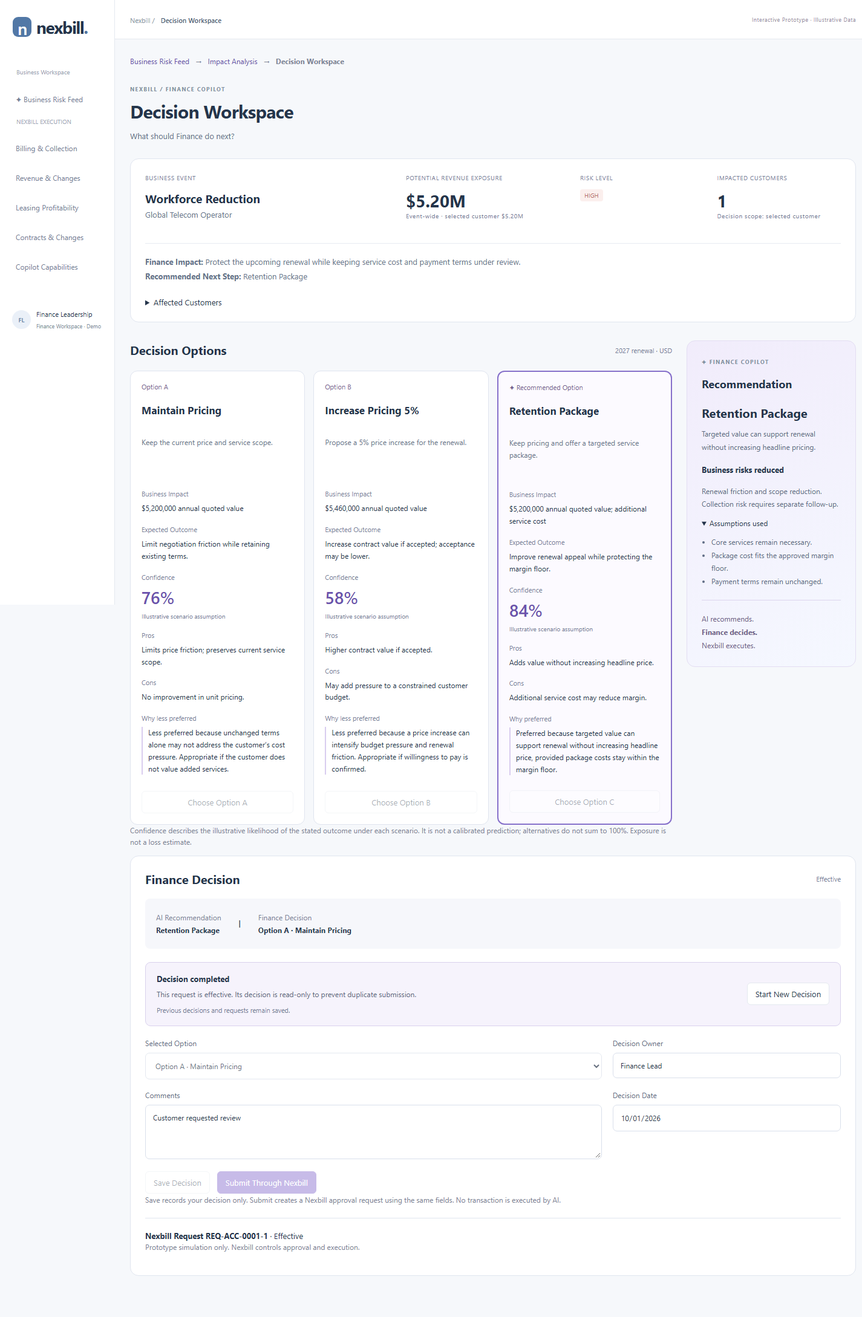
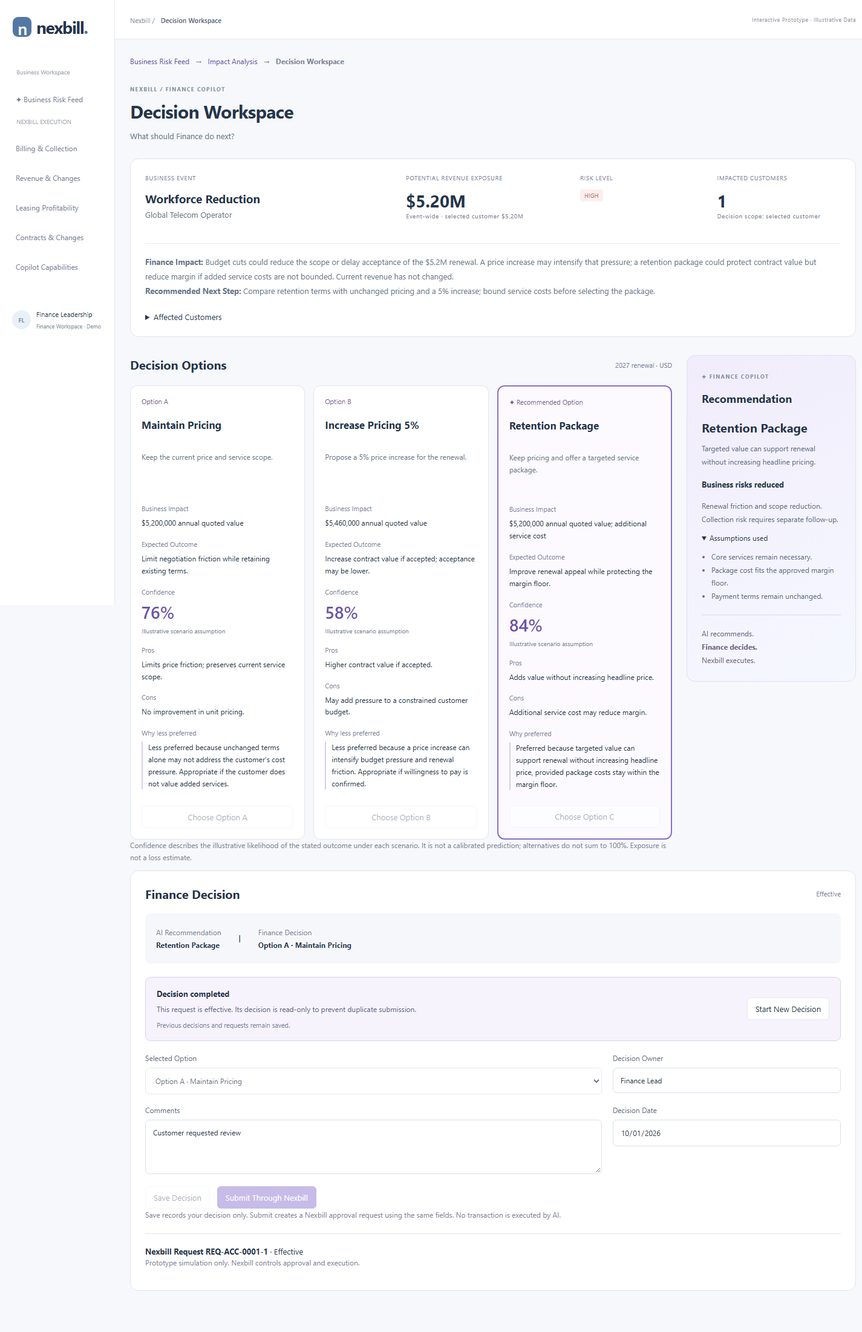
Clarify finance impacts and align recommended actions

diff --git a/decision-english.js b/decision-english.js
@@ -14,7 +14,7 @@ function workspaceRecommendation(r){return workspaceOptions(r).find(o=>o.recomme
 const englishStatus={pending:'Submitted · Awaiting approval',approved:'Approved · Awaiting effective date',effective:'Effective',rejected:'Rejected'};
 function englishChoice(text){const map=new Map(operationChoices.map((v,i)=>[v,['Maintain Pricing','Increase Pricing 5%','Retention Package'][i]]));return map.get(text)||String(text||'').replace('AR Owner','AR Lead').replace('Business Change Effective: ','Effective: ').replace('Track Business Request: ','Submitted: ').replace('Under Observation','Under observation')}
 function englishHistory(r){const records=state().decisions.filter(d=>d.eventId===r.event.id&&d.source!=='nexbill-effective');return records.map(d=>{const op=(state().operations||[]).find(o=>o.id===d.operationId),outcomes=(state().businessOutcomes||[]).filter(o=>o.decisionId===d.id);return `<article class="v3-record"><div class="event-comparison"><div><small>AI Recommendation</small><b>${esc(englishChoice(d.recommendation))}</b></div><div><small>Finance Decision</small><b>${esc(englishChoice(d.financeChoice||op?.choice||d.selection))}</b><p>${esc(d.comments||'No comments')}</p></div><div><small>Nexbill Execution</small><b>${op?englishStatus[op.status]:'Saved · Not submitted'}</b><p>${esc(englishChoice(d.owner))} · ${esc(d.decisionDate||d.snapshotDate)}</p></div></div><h3>Business Outcome</h3>${outcomes.map(o=>`<p>${esc(o.date)} · ${esc(o.result)}<br>${esc(o.comment)}</p>`).join('')||'<p>Not yet observed. Approval is not evidence of a business improvement.</p>'}<details><summary>Record an observed outcome</summary><form class="v3-outcome" data-decision="${esc(d.id)}"><label>Observation Date<input type="date" name="date" required></label><label>Outcome<select name="result"><option>Still under observation</option><option>Improved</option><option>No material change</option><option>Deteriorated</option></select></label><label>Observation / Evidence<textarea name="comment" required maxlength="1500"></textarea></label><button type="submit">Save Outcome</button></form></details></article>`}).join('')}
-eventDecisionPage=function(r){const options=workspaceOptions(r),recommended=workspaceRecommendation(r),v=decisionValue(r),record=workspaceRecord(r),op=record?.operationId?(state().operations||[]).find(o=>o.id===record.operationId):null,busy=op&&op.status!=='rejected',renewal=r.event.issue==='renewal';return `<nav class="event-steps"><a href="#events">Business Risk Feed</a><span>→</span><a href="${journeyLink('impact',r.event)}">Impact Analysis</a><span>→</span><b>Decision Workspace</b></nav>`+journeyHeader('Decision Workspace','What should Finance do next?')+`<section class="dw-summary"><div><small>BUSINESS EVENT</small><h2>${r.event.title}</h2><p>${esc(englishAccount(c()))}</p></div><div><small>${r.event.growth?'POTENTIAL GROWTH':'POTENTIAL REVENUE EXPOSURE'}</small><strong>${million(eventTotal(r.event))}</strong><small>Event-wide · selected customer ${million(r.link.value)}</small></div><div><small>RISK LEVEL</small><span class="status ${r.event.growth?'green':'red'}">${r.event.growth?'OPPORTUNITY':r.event.priority.toUpperCase()}</span></div><div><small>IMPACTED CUSTOMERS</small><strong>${r.event.links.length}</strong><small>Decision scope: selected customer</small></div><p class="dw-impact"><b>Finance Impact:</b> ${r.event.impact}<br><b>Recommended Next Step:</b> ${recommended.label}</p><details><summary>Affected Customers</summary>${r.event.links.map(l=>`<p><a href="${journeyLink('decision',r.event,l.id)}">${esc(englishAccount(accounts[l.id]))} · ${million(l.value)}</a></p>`).join('')}</details></section><div class="dw-layout"><section><div class="dw-section-title"><h2>Decision Options</h2><span>${renewal?'2027 renewal · USD':'Customer action review'}</span></div><div class="dw-options">${options.map((o,i)=>`<article class="dw-option ${o.recommended?'recommended':''}"><div class="dw-option-label">${o.recommended?'✦ Recommended Option':'Option '+String.fromCharCode(65+i)}</div><h3>${o.label}</h3><p class="dw-outcome">${o.description}</p><dl><dt>Business Impact</dt><dd class="dw-body">${o.businessImpact}</dd><dt>Expected Outcome</dt><dd class="dw-body">${o.outcome}</dd><dt>Confidence</dt><dd class="dw-probability">${o.prob}%<small>Illustrative scenario assumption</small></dd><dt>Pros</dt><dd class="dw-body">${o.pro}</dd><dt>Cons</dt><dd class="dw-body">${o.con}</dd></dl><button type="button" data-dw-choice="${esc(o.choice)}" ${busy?'disabled':''}>Choose Option ${String.fromCharCode(65+i)}</button></article>`).join('')}</div><p class="event-footnote">Confidence describes the illustrative likelihood of the stated outcome under each scenario. It is not a calibrated prediction; alternatives do not sum to 100%. Exposure is not a loss estimate.</p></section><aside class="dw-copilot"><span class="tiny-label">✦ FINANCE COPILOT</span><h2>Recommendation</h2><h3>${recommended.label}</h3><p>${renewal?'Targeted value can support renewal without increasing headline pricing.':r.event.growth?'Validate customer funding before committing commercial resources or adding forecast revenue.':'Confirm payment commitments early, before a credit signal becomes a missed payment.'}</p><h4>Business risks reduced</h4><p>${renewal?'Renewal friction and scope reduction. Collection risk requires separate follow-up.':r.event.growth?'Unfunded demand and premature revenue assumptions.':'Unclear payment timing and delayed collection escalation.'}</p><details open><summary>Assumptions used</summary><ul>${(renewal?['Core services remain necessary.','Package cost fits the approved margin floor.','Payment terms remain unchanged.']:r.event.growth?['Expansion is announced, not contracted.','Budget and procurement dates need confirmation.','No opportunity revenue is booked.']:['Open balances are not assumed to be losses.','The customer can confirm payment commitments.','Changes to terms require Nexbill approval.']).map(x=>'<li>'+x+'</li>').join('')}</ul></details><div class="dw-boundary">AI recommends.<br><b>Finance decides.</b><br>Nexbill executes.</div></aside></div><section class="event-card" id="business-action"><div class="dw-section-title"><h2>Finance Decision</h2><span>${op?englishStatus[op.status]:record?'Saved · Not submitted':'Awaiting decision'}</span></div><div class="dw-versus"><div><small>AI Recommendation</small><b>${recommended.label}</b></div><span aria-hidden="true">│</span><div><small>Finance Decision</small><b id="dw-selected-label">${esc(options.find(o=>o.choice===v.choice)?.name||'No option selected')}</b></div></div><form id="finance-decision-form"><div class="dw-fields"><label>Selected Option<select name="choice" required ${busy?'disabled':''}><option value="">Select an option</option>${options.map(o=>`<option value="${esc(o.choice)}" ${o.choice===v.choice?'selected':''}>${o.name}</option>`).join('')}</select></label><label>Decision Owner<input name="owner" maxlength="150" required value="${esc(englishChoice(v.owner))}" ${busy?'disabled':''}></label><label>Comments<textarea name="comments" maxlength="1500" required ${busy?'disabled':''} placeholder="Explain your choice and any difference from the AI recommendation.">${esc(v.comments)}</textarea></label><label>Decision Date<input type="date" name="date" value="${esc(v.date)}" required ${busy?'disabled':''}></label></div><div class="dw-actions"><button type="submit" name="intent" value="save" ${busy?'disabled':''}>Save Decision</button><button class="primary" type="submit" name="intent" value="submit" ${busy?'disabled':''}>Submit Through Nexbill</button></div><p class="event-footnote">Save records your decision only. Submit creates a Nexbill approval request using the same fields. No transaction is executed by AI.</p></form>${op?`<div class="dw-execution"><b>Nexbill Request ${esc(op.id)}</b> · ${englishStatus[op.status]}${op.status==='pending'?'<p><button data-business-status="approved">Simulate Approval</button> <button data-business-status="rejected">Simulate Rejection</button></p>':op.status==='approved'?'<p><button data-business-status="effective">Simulate Effective Date</button></p>':''}<p class="event-footnote">Prototype simulation only. Actual business outcomes are recorded separately.</p></div>`:''}</section>${record?`<details class="event-card"><summary>Decision History & Business Outcomes</summary>${englishHistory(r)}</details>`:''}`};
+eventDecisionPage=function(r){const options=workspaceOptions(r),recommended=workspaceRecommendation(r),v=decisionValue(r),record=workspaceRecord(r),op=record?.operationId?(state().operations||[]).find(o=>o.id===record.operationId):null,busy=op&&op.status!=='rejected',renewal=r.event.issue==='renewal';return `<nav class="event-steps"><a href="#events">Business Risk Feed</a><span>→</span><a href="${journeyLink('impact',r.event)}">Impact Analysis</a><span>→</span><b>Decision Workspace</b></nav>`+journeyHeader('Decision Workspace','What should Finance do next?')+`<section class="dw-summary"><div><small>BUSINESS EVENT</small><h2>${r.event.title}</h2><p>${esc(englishAccount(c()))}</p></div><div><small>${r.event.growth?'POTENTIAL GROWTH':'POTENTIAL REVENUE EXPOSURE'}</small><strong>${million(eventTotal(r.event))}</strong><small>Event-wide · selected customer ${million(r.link.value)}</small></div><div><small>RISK LEVEL</small><span class="status ${r.event.growth?'green':'red'}">${r.event.growth?'OPPORTUNITY':r.event.priority.toUpperCase()}</span></div><div><small>IMPACTED CUSTOMERS</small><strong>${r.event.links.length}</strong><small>Decision scope: selected customer</small></div><p class="dw-impact"><b>Finance Impact:</b> ${r.event.impact}<br><b>Recommended Next Step:</b> ${r.event.growth?'Validate funding and procurement dates before preparing a proposal or adding forecast revenue.':renewal?'Compare retention terms with unchanged pricing and a 5% increase; bound service costs before selecting the package.':'Confirm payment dates for the largest open invoices before considering revised payment terms.'}</p><details><summary>Affected Customers</summary>${r.event.links.map(l=>`<p><a href="${journeyLink('decision',r.event,l.id)}">${esc(englishAccount(accounts[l.id]))} · ${million(l.value)}</a></p>`).join('')}</details></section><div class="dw-layout"><section><div class="dw-section-title"><h2>Decision Options</h2><span>${renewal?'2027 renewal · USD':'Customer action review'}</span></div><div class="dw-options">${options.map((o,i)=>`<article class="dw-option ${o.recommended?'recommended':''}"><div class="dw-option-label">${o.recommended?'✦ Recommended Option':'Option '+String.fromCharCode(65+i)}</div><h3>${o.label}</h3><p class="dw-outcome">${o.description}</p><dl><dt>Business Impact</dt><dd class="dw-body">${o.businessImpact}</dd><dt>Expected Outcome</dt><dd class="dw-body">${o.outcome}</dd><dt>Confidence</dt><dd class="dw-probability">${o.prob}%<small>Illustrative scenario assumption</small></dd><dt>Pros</dt><dd class="dw-body">${o.pro}</dd><dt>Cons</dt><dd class="dw-body">${o.con}</dd></dl><button type="button" data-dw-choice="${esc(o.choice)}" ${busy?'disabled':''}>Choose Option ${String.fromCharCode(65+i)}</button></article>`).join('')}</div><p class="event-footnote">Confidence describes the illustrative likelihood of the stated outcome under each scenario. It is not a calibrated prediction; alternatives do not sum to 100%. Exposure is not a loss estimate.</p></section><aside class="dw-copilot"><span class="tiny-label">✦ FINANCE COPILOT</span><h2>Recommendation</h2><h3>${recommended.label}</h3><p>${renewal?'Targeted value can support renewal without increasing headline pricing.':r.event.growth?'Validate customer funding before committing commercial resources or adding forecast revenue.':'Confirm payment commitments early, before a credit signal becomes a missed payment.'}</p><h4>Business risks reduced</h4><p>${renewal?'Renewal friction and scope reduction. Collection risk requires separate follow-up.':r.event.growth?'Unfunded demand and premature revenue assumptions.':'Unclear payment timing and delayed collection escalation.'}</p><details open><summary>Assumptions used</summary><ul>${(renewal?['Core services remain necessary.','Package cost fits the approved margin floor.','Payment terms remain unchanged.']:r.event.growth?['Expansion is announced, not contracted.','Budget and procurement dates need confirmation.','No opportunity revenue is booked.']:['Open balances are not assumed to be losses.','The customer can confirm payment commitments.','Changes to terms require Nexbill approval.']).map(x=>'<li>'+x+'</li>').join('')}</ul></details><div class="dw-boundary">AI recommends.<br><b>Finance decides.</b><br>Nexbill executes.</div></aside></div><section class="event-card" id="business-action"><div class="dw-section-title"><h2>Finance Decision</h2><span>${op?englishStatus[op.status]:record?'Saved · Not submitted':'Awaiting decision'}</span></div><div class="dw-versus"><div><small>AI Recommendation</small><b>${recommended.label}</b></div><span aria-hidden="true">│</span><div><small>Finance Decision</small><b id="dw-selected-label">${esc(options.find(o=>o.choice===v.choice)?.name||'No option selected')}</b></div></div><form id="finance-decision-form"><div class="dw-fields"><label>Selected Option<select name="choice" required ${busy?'disabled':''}><option value="">Select an option</option>${options.map(o=>`<option value="${esc(o.choice)}" ${o.choice===v.choice?'selected':''}>${o.name}</option>`).join('')}</select></label><label>Decision Owner<input name="owner" maxlength="150" required value="${esc(englishChoice(v.owner))}" ${busy?'disabled':''}></label><label>Comments<textarea name="comments" maxlength="1500" required ${busy?'disabled':''} placeholder="Explain your choice and any difference from the AI recommendation.">${esc(v.comments)}</textarea></label><label>Decision Date<input type="date" name="date" value="${esc(v.date)}" required ${busy?'disabled':''}></label></div><div class="dw-actions"><button type="submit" name="intent" value="save" ${busy?'disabled':''}>Save Decision</button><button class="primary" type="submit" name="intent" value="submit" ${busy?'disabled':''}>Submit Through Nexbill</button></div><p class="event-footnote">Save records your decision only. Submit creates a Nexbill approval request using the same fields. No transaction is executed by AI.</p></form>${op?`<div class="dw-execution"><b>Nexbill Request ${esc(op.id)}</b> · ${englishStatus[op.status]}${op.status==='pending'?'<p><button data-business-status="approved">Simulate Approval</button> <button data-business-status="rejected">Simulate Rejection</button></p>':op.status==='approved'?'<p><button data-business-status="effective">Simulate Effective Date</button></p>':''}<p class="event-footnote">Prototype simulation only. Actual business outcomes are recorded separately.</p></div>`:''}</section>${record?`<details class="event-card"><summary>Decision History & Business Outcomes</summary>${englishHistory(r)}</details>`:''}`};
 // Routing only: retain the approved Impact Analysis layout and evidence content.
 const approvedImpactPage=impactPage;
 impactPage=function(r){return approvedImpactPage(r).replaceAll('#customer/'+r.event.id+'/','#decision/'+r.event.id+'/').replaceAll('Review customer →','Review decision →')};

diff --git a/events.js b/events.js
@@ -1,9 +1,9 @@
 // Event-first Finance Copilot journey embedded in the Nexbill shell.
 const businessEvents=[
  {id:'workforce',title:'Workforce Reduction',kind:'Operating change',date:'2026-10-01',source:'Customer operating update · illustrative',summary:'Retail Technology Group announces a workforce and operating-footprint reduction.',interpretation:'Lower operating capacity may reduce equipment demand before billing changes.',impact:'Review usage and upcoming commitments; announced cuts are not confirmed contract reductions.',label:'Potential Revenue Exposure',links:[{id:1,value:2400000}],issue:'revenue',action:'Validate Demand & Change Scope'},
- {id:'credit',title:'Credit Outlook Downgrade',kind:'Credit signal',date:'2026-10-01',source:'Credit outlook notice · illustrative',summary:'Global Telecom Operator receives a negative credit outlook.',interpretation:'Funding pressure may affect future payment timing even while invoices remain within terms.',impact:'Prioritize payment confirmation. Outstanding receivables are exposure, not expected loss.',label:'Potential Revenue Exposure',links:[{id:0,value:5200000}],collection:2000000,issue:'collection',action:'Prioritize Overdue Collection'},
- {id:'slowdown',title:'Industry Investment Slowdown',kind:'Market signal',date:'2026-09-30',source:'Sector investment briefing · illustrative',summary:'Telecom operators signal slower capital spending.',interpretation:'Expansion orders and renewal budgets may face pressure before recognized revenue changes.',impact:'Validate budgets and renewal timing across affected customers.',label:'Potential Revenue Exposure',links:[{id:0,value:3200000},{id:5,value:1800000},{id:10,value:3000000}],issue:'renewal',action:'Maintain Pricing'},
- {id:'expansion',title:'Expansion Opportunity',kind:'Growth signal',date:'2026-10-01',source:'Planned facility announcement · illustrative',summary:'New data center investment is announced across two customer programs.',interpretation:'New facilities could create equipment and service demand before orders are placed.',impact:'Validate funding and procurement dates; keep opportunities outside committed revenue.',label:'Potential Revenue Exposure',links:[{id:3,value:2500000},{id:4,value:1500000}],growth:true,issue:'growth',action:'Confirm Expansion Budget & Procurement Timing'}
+ {id:'credit',title:'Credit Outlook Downgrade',kind:'Credit signal',date:'2026-10-01',source:'Credit outlook notice · illustrative',summary:'Global Telecom Operator receives a negative credit outlook.',interpretation:'Funding pressure may affect future payment timing even while invoices remain within terms.',impact:'Slower payment could delay cash receipts from the $2M open receivables balance and increase collection effort. The timing risk can rise before further overdue balances appear; it is not a $2M expected loss.',label:'Potential Revenue Exposure',links:[{id:0,value:5200000}],collection:2000000,issue:'collection',action:'Prioritize Overdue Collection'},
+ {id:'slowdown',title:'Industry Investment Slowdown',kind:'Market signal',date:'2026-09-30',source:'Sector investment briefing · illustrative',summary:'Telecom operators signal slower capital spending.',interpretation:'Expansion orders and renewal budgets may face pressure before recognized revenue changes.',impact:'Lower investment budgets could reduce renewal scope or move planned revenue into later periods across the $8M business scope under review. Current booked revenue is unchanged; $8M is not an estimated loss.',label:'Potential Revenue Exposure',links:[{id:0,value:3200000},{id:5,value:1800000},{id:10,value:3000000}],issue:'renewal',action:'Maintain Pricing'},
+ {id:'expansion',title:'Expansion Opportunity',kind:'Growth signal',date:'2026-10-01',source:'Planned facility announcement · illustrative',summary:'New data center investment is announced across two customer programs.',interpretation:'New facilities could create equipment and service demand before orders are placed.',impact:'The $4M potential opportunity is not contracted. If funding or procurement slips, expected revenue moves later while proposal and delivery preparation can consume resources before an order is secured.',label:'Potential Revenue Exposure',links:[{id:3,value:2500000},{id:4,value:1500000}],growth:true,issue:'growth',action:'Confirm Expansion Budget & Procurement Timing'}
 ];
 issueCatalog.growth={title:'Growth Opportunity',route:'contracts',action:'Confirm Expansion Budget & Procurement Timing',alternatives:['Prepare a Scoped Expansion Proposal','No Adjustment, Continue Monitoring'],tradeoff:'Validate budget and demand first; Unconfirmed opportunities are excluded from revenue. '};
 function journeyRoute(){const p=location.hash.slice(1).split('/');if(!p[0]||p[0]==='events')return {page:'events'};if(!['impact','customer','decision'].includes(p[0]))return null;const event=businessEvents.find(e=>e.id===p[1]);if(!event)return {page:'invalid'};const link=event.links.find(l=>l.id===Number(p[2]));if(p[0]!=='impact'&&!link)return {page:'invalid'};return {page:p[0],event,link}}
@@ -12,7 +12,7 @@ function journeyLink(view,e,id){return '#'+view+'/'+e.id+(id===undefined?'':'/'+
 function journeyHeader(title,sub){return `<div class="event-heading"><span class="tiny-label">NEXBILL / FINANCE COPILOT</span><h1>${title}</h1><p>${sub}</p></div>`}
 function eventSteps(r){return `<nav class="event-steps" aria-label="Decision journey"><a href="#events">Business Events</a><span>→</span><a href="${journeyLink('impact',r.event)}">Impact Analysis</a><span>→</span>${r.link?`<a href="${journeyLink('customer',r.event,r.link.id)}">Customer 360</a><span>→</span><a href="${journeyLink('decision',r.event,r.link.id)}">Decision Workspace</a>`:'<span>Affected Customer → Decision</span>'}</nav>`}
 function feedPage(){return journeyHeader('Business Risk Feed','What changed in the market? Review the financial implications before results change.')+`<div class="event-banner"><b>Signals first. Decisions earlier.</b><span>4 illustrative business events · Exposure is not a forecast loss</span></div><div class="event-grid">${businessEvents.map(e=>`<article class="event-card"><div class="event-meta"><span>${e.kind}</span><time>${e.date}</time></div><h2>${e.title}</h2><p>${e.summary}</p><div class="event-value"><small>${e.growth?'Potential Growth':e.label}</small><strong>${million(eventTotal(e))}</strong>${e.growth?`<span>Potential Revenue Exposure · Not assessed</span>`:e.collection?`<span>Collection Exposure ${million(e.collection)}</span>`:''}</div><div class="event-customers">Affected Customers <b>${e.links.length}</b><small>${e.links.map(l=>esc(accounts[l.id].name)).join(' · ')}</small></div><a class="event-primary" href="${journeyLink('impact',e)}">${e.growth?'Review Opportunity':'Review Impact'} →</a></article>`).join('')}</div><p class="event-footnote">Illustrative events, customer mappings and amounts. Event exposures may overlap; do not add them into a portfolio total.</p>`}
-function impactPage(r){const e=r.event;return eventSteps(r)+journeyHeader('Impact Analysis',e.title)+`<div class="event-analysis"><section class="event-card"><span class="tiny-label">01 / BUSINESS EVENT</span><h2>${e.title}</h2><p>${e.summary}</p><details><summary>Evidence and assumptions</summary><p>${e.source} · ${e.date}</p><p>Customer associations and amounts are demonstration assumptions, not independently verified findings. ${e.growth?'Opportunity value is not booked revenue.':'Exposure represents the selected business scope, not a probability-weighted loss.'}</p></details></section><section class="event-card"><span class="tiny-label">02 / AI INTERPRETATION</span><h2>Why Finance should look now</h2><p>${e.interpretation}</p><div class="event-callout">${e.impact}</div></section></div><section class="event-card"><span class="tiny-label">03 / FINANCE IMPACT</span><h2>${e.growth?'Potential Growth':e.label} · ${million(eventTotal(e))}</h2>${e.collection?`<p>Collection Exposure · ${million(e.collection)}</p>`:''}<div class="event-comparison"><div><small>Traditional view</small><b>Current financial results</b><p>Review recorded revenue, invoices and payment history.</p></div><div><small>Forward-looking view</small><b>Decision assumptions may change</b><p>${e.interpretation}</p></div></div><h3>Affected Customers</h3>${e.links.map(l=>`<a class="event-customer-row" href="${journeyLink('customer',e,l.id)}"><span>${esc(accounts[l.id].name)}<small>${e.growth?'Potential growth':'Revenue exposure'} · ${million(l.value)}</small></span><b>Review customer →</b></a>`).join('')}</section>`}
+function impactPage(r){const e=r.event;return eventSteps(r)+journeyHeader('Impact Analysis',e.title)+`<div class="event-analysis"><section class="event-card"><span class="tiny-label">01 / BUSINESS EVENT</span><h2>${e.title}</h2><p>${e.summary}</p><details><summary>Evidence and assumptions</summary><p>${e.source} · ${e.date}</p><p>Customer associations and amounts are demonstration assumptions, not independently verified findings. ${e.growth?'Opportunity value is not booked revenue.':'Exposure represents the selected business scope, not a probability-weighted loss.'}</p></details></section><section class="event-card"><span class="tiny-label">02 / AI INTERPRETATION</span><h2>Why Finance should look now</h2><p>${e.interpretation}</p></section></div><section class="event-card"><span class="tiny-label">03 / FINANCE IMPACT</span><h2>${e.growth?'Potential Growth':e.label} · ${million(eventTotal(e))}</h2><p>${e.impact}</p>${e.collection?`<p>Collection Exposure · ${million(e.collection)}</p>`:''}<div class="event-comparison"><div><small>Traditional view</small><b>Current financial results</b><p>Review recorded revenue, invoices and payment history.</p></div><div><small>Forward-looking view</small><b>Decision assumptions may change</b><p>${e.interpretation}</p></div></div><h3>Affected Customers</h3>${e.links.map(l=>`<a class="event-customer-row" href="${journeyLink('customer',e,l.id)}"><span>${esc(accounts[l.id].name)}<small>${e.growth?'Potential growth':'Revenue exposure'} · ${million(l.value)}</small></span><b>Review customer →</b></a>`).join('')}</section>`}
 function customerPage(r){const e=r.event,a=accounts[r.link.id],m=metrics(a),ar=arMetrics(a);return eventSteps(r)+journeyHeader('Customer 360',a.name)+`<div class="event-callout"><b>Reviewing because: ${e.title}</b><p>${e.interpretation}</p></div><div class="event-metrics"><div>Current monthly revenue<strong>${million(a.revenue)}</strong></div><div>Open receivables<strong>${million(ar.open)}</strong></div><div>Gross margin<strong>${pct(m.margin)}</strong></div></div><div class="event-analysis"><section class="event-card"><h2>Financial facts</h2><p>Recorded results remain the starting point. This event has not changed invoices, contracts or recognized revenue.</p><details><summary>View current invoices</summary>${invoices(a).map(i=>`<p>${esc(i.id)} · ${usd(i.open)} open · ${esc(i.status)}</p>`).join('')}</details></section><section class="event-card"><span class="tiny-label">EVENT-SPECIFIC IMPACT</span><h2>${e.growth?'Opportunity':'Revenue exposure'} · ${million(r.link.value)}</h2><p>${e.impact}</p><a class="event-primary" href="${journeyLink('decision',e,a.id)}">Review Decision →</a></section></div>`}
 function eventDecisionPage(r){const e=r.event,s=state(),records=s.decisions.filter(d=>d.eventId===e.id);return eventSteps(r)+journeyHeader('Decision Workspace',c().name+' · '+e.title)+`<div class="event-analysis"><section class="event-card"><span class="tiny-label">04 / RECOMMENDED ACTION</span><h2>${e.action}</h2><p>${e.impact}</p><details><summary>Compare alternatives</summary><p>${selectedIssue().tradeoff}</p>${currentChoices().map(t=>`<p>• ${esc(t)}</p>`).join('')}</details><button class="secondary full-width" data-event-watch="${e.id}">Continue monitoring · Record decision</button><p class="event-footnote">No business change. Record this event and customer for follow-up.</p></section><section class="event-card"><span class="tiny-label">05 / FINANCE DECISION</span><h2>Review once. Submit in Nexbill.</h2><p>Choose the action in the Nexbill form below. Submission captures the selected decision, AI recommendation and event context together.</p><div class="event-callout">${records.length?'Decision captured · '+records.length+' record(s)':'Awaiting Finance review'}</div><details><summary>Decision history</summary>${records.map(d=>`<p><b>${esc(d.selection)}</b><br>${esc(d.comments||'No comment')}<br><small>${esc(d.savedAt)}</small></p>`).join('')||'<p>No decision recorded for this event and customer.</p>'}</details></section></div>${businessAction()}`}
 const nativeJourneyHost=hostRender;

diff --git a/v3.js b/v3.js
@@ -5,7 +5,7 @@ businessEvents.find(e=>e.id==='slowdown').action='Retention Package';
 const v2Feed=feedPage;
 feedPage=function(){let html=v2Feed().replace('Signals first. Decisions earlier.','New Business Events');businessEvents.forEach(e=>{html=html.replace(`<h2>${e.title}</h2>`,`<span class="status ${e.growth?'green':'amber'}">Priority · ${e.priority}</span><h2>${e.title}</h2>`).replace(`<a class="event-primary" href="${journeyLink('impact',e)}">`,`<p class="v3-next"><small>Suggested Next Step</small><br>${esc(e.action)}</p><a class="event-primary" href="${journeyLink('impact',e)}">`)});return html};
 const v2Impact=impactPage;
-impactPage=function(r){const e=r.event,sorted={...e,links:[...e.links].sort((a,b)=>b.value-a.value)};let html=v2Impact({...r,event:sorted}).replace('01 / BUSINESS EVENT','01 / WHAT CHANGED').replace('<h3>Affected Customers</h3>','<h3>Affected Customer Portfolio</h3><p class="event-footnote">Sorted by exposure · overlapping event exposures are not additive.</p>');const metricsHtml=`<div class="event-metrics"><div>${e.growth?'Potential Growth':'Revenue Exposure'}<strong>${million(eventTotal(e))}</strong></div><div>Affected Renewals<strong>${e.links.reduce((n,l)=>n+l.renewals,0)}</strong></div><div>Affected Customers<strong>${e.links.length}</strong></div></div>`;html=html.replace('<div class="event-comparison">',metricsHtml+'<div class="event-comparison">');return html+`<section class="event-card"><h2>Recommended Next Steps</h2><div class="v3-actions"><a class="event-primary" href="#revenue">Review Q4 Forecast →</a><a class="event-primary" href="${journeyLink('customer',e,sorted.links[0].id)}">${e.growth?'Validate opportunity':'Review affected customer decisions'} →</a>${!e.growth?'<a class="event-primary" href="#impact/expansion">Review Cloud Opportunities →</a>':''}</div></section>`};
+impactPage=function(r){const e=r.event,sorted={...e,links:[...e.links].sort((a,b)=>b.value-a.value)};let html=v2Impact({...r,event:sorted}).replace('01 / BUSINESS EVENT','01 / WHAT CHANGED').replace('<h3>Affected Customers</h3>','<h3>Affected Customer Portfolio</h3><p class="event-footnote">Sorted by exposure · overlapping event exposures are not additive.</p>');const metricsHtml=`<div class="event-metrics"><div>${e.growth?'Potential Growth':'Revenue Exposure'}<strong>${million(eventTotal(e))}</strong></div><div>Affected Renewals<strong>${e.links.reduce((n,l)=>n+l.renewals,0)}</strong></div><div>Affected Customers<strong>${e.links.length}</strong></div></div>`;html=html.replace('<div class="event-comparison">',metricsHtml+'<div class="event-comparison">');return html+`<section class="event-card"><h2>Recommended Next Steps</h2><div class="v3-actions"><a class="event-primary" href="${journeyLink('customer',e,sorted.links[0].id)}">${e.growth?'Validate funding before committing resources':e.issue==='collection'?'Confirm payment dates for exposed receivables':'Compare renewal terms against budget pressure'} →</a></div></section>`};
 const v2Customer=customerPage;
 customerPage=function(r){const a=accounts[r.link.id],m=metrics(a),ar=arMetrics(a);return v2Customer(r).replace('<div class="event-analysis">',`<div class="event-card"><span class="tiny-label">CUSTOMER OVERVIEW</span><h3>Renewal Date · 2027-01-01</h3><small>Illustrative renewal schedule</small></div><div class="event-analysis"><section class="event-card"><h2>Internal Signals</h2><p>Revenue Trend · Six-month revenue near current levels.</p><p>Billing Trend · Historical comparison unavailable; current invoices available below.</p><p>Collection Trend · ${state(a.id).step>=3?'Recent payment improvement':'No new payment change loaded'}; overdue ${million(ar.overdue)}.</p><p>Margin · ${pct(m.priorMargin)} → ${pct(m.margin)}</p></section><section class="event-card"><h2>External Signals</h2>${businessEvents.filter(e=>e.links.some(l=>l.id===a.id)).map(e=>`<p><a href="${journeyLink('impact',e)}">${e.title}</a></p>`).join('')}<small>Illustrative signals · only events associated with this customer.</small></section></div><section class="event-card"><span class="tiny-label">AI INTERPRETATION</span><h2>${r.event.growth?'Customer Expansion Pattern':'Customer Financial Stress Pattern'}</h2><p>${r.event.interpretation}</p><div class="event-comparison"><div><b>Revenue ${r.event.growth?'Opportunity':'Risk'}</b>${million(r.link.value)} · scope for review, not predicted loss</div><div><b>Collection Risk</b>${r.event.collection?'Credit signal warrants payment follow-up.':'No additional default estimate from this event.'}</div><div><b>Renewal Risk</b>${r.link.renewals} renewal(s) in review scope</div></div></section><div class="event-analysis">`)};
 const renewalScenarios=[

diff --git a/decision-workspace.js b/decision-workspace.js
@@ -1,5 +1,5 @@
 // Executive renewal decision workspace, within Nexbill.
-Object.assign(businessEvents.find(e=>e.id==='workforce'),{summary:'Global Telecom Operator announces workforce reductions as part of a cost-reduction program.',links:[{id:0,value:5200000,renewals:1}],issue:'renewal',action:operationChoices[2],interpretation:'Cost pressure may constrain the renewal budget before revenue or payment history changes.',impact:'Protect the upcoming renewal while keeping service cost and payment terms under review.'});
+Object.assign(businessEvents.find(e=>e.id==='workforce'),{summary:'Global Telecom Operator announces workforce reductions as part of a cost-reduction program.',links:[{id:0,value:5200000,renewals:1}],issue:'renewal',action:operationChoices[2],interpretation:'Cost pressure may constrain the renewal budget before revenue or payment history changes.',impact:'Budget cuts could reduce the scope or delay acceptance of the $5.2M renewal. A price increase may intensify that pressure; a retention package could protect contract value but reduce margin if added service costs are not bounded. Current revenue has not changed.'});
 const decisionDrafts={};
 function decisionKey(r){return r.event.id+':'+r.link.id}
 function workspaceRecord(r){return state().decisions.filter(d=>d.eventId===r.event.id&&['finance-saved','nexbill'].includes(d.source)).at(-1)}
